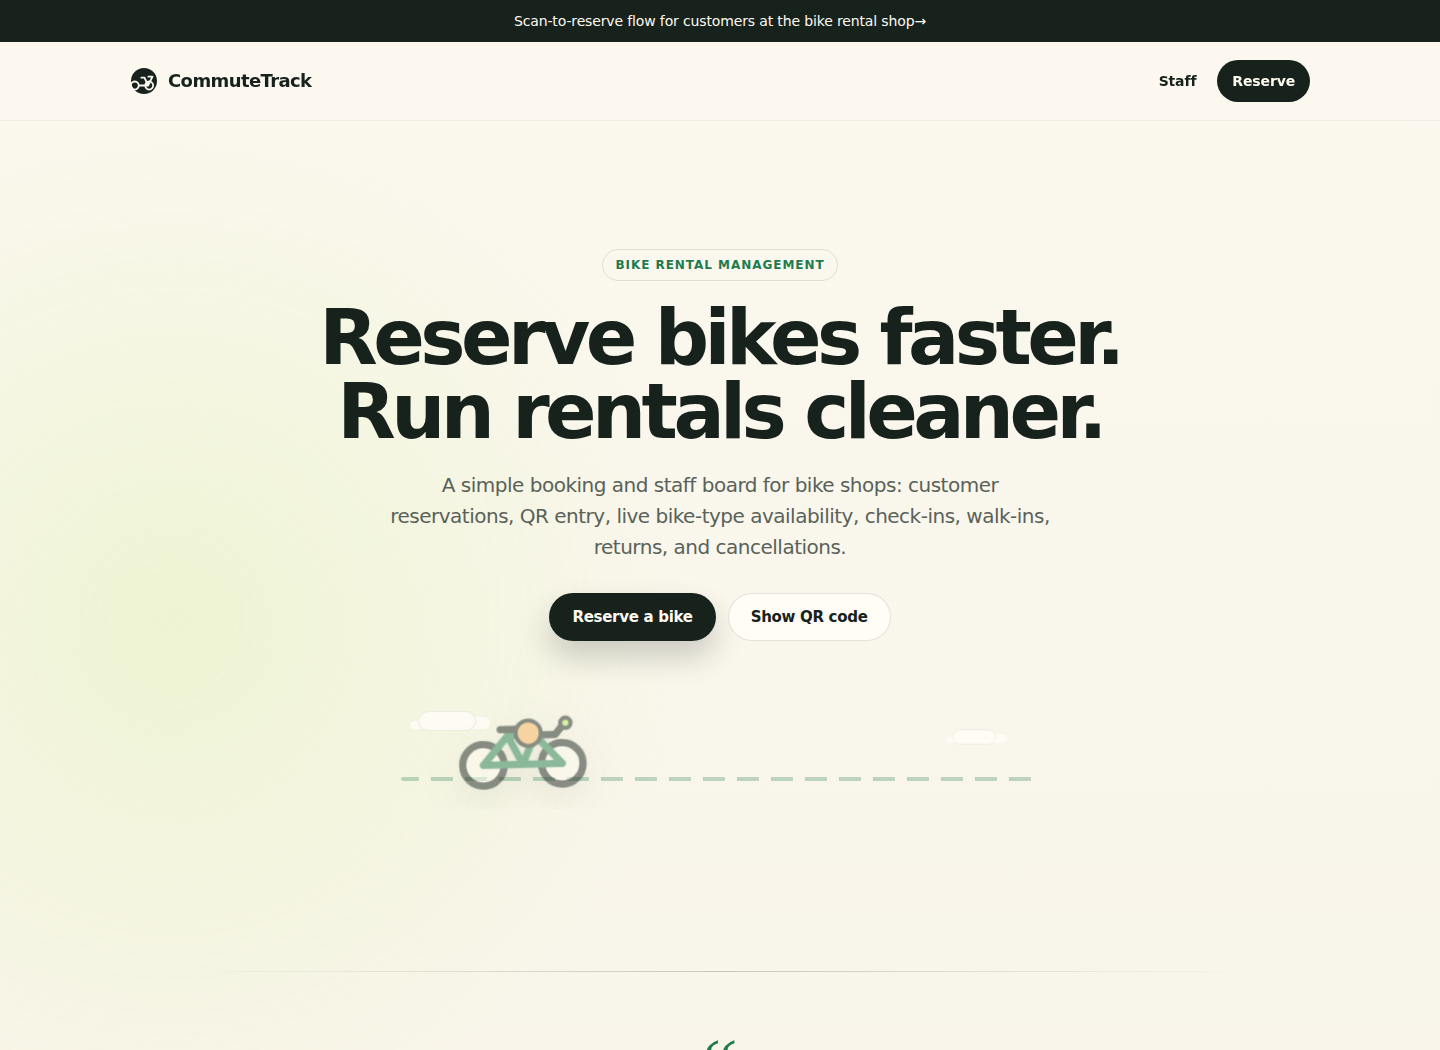
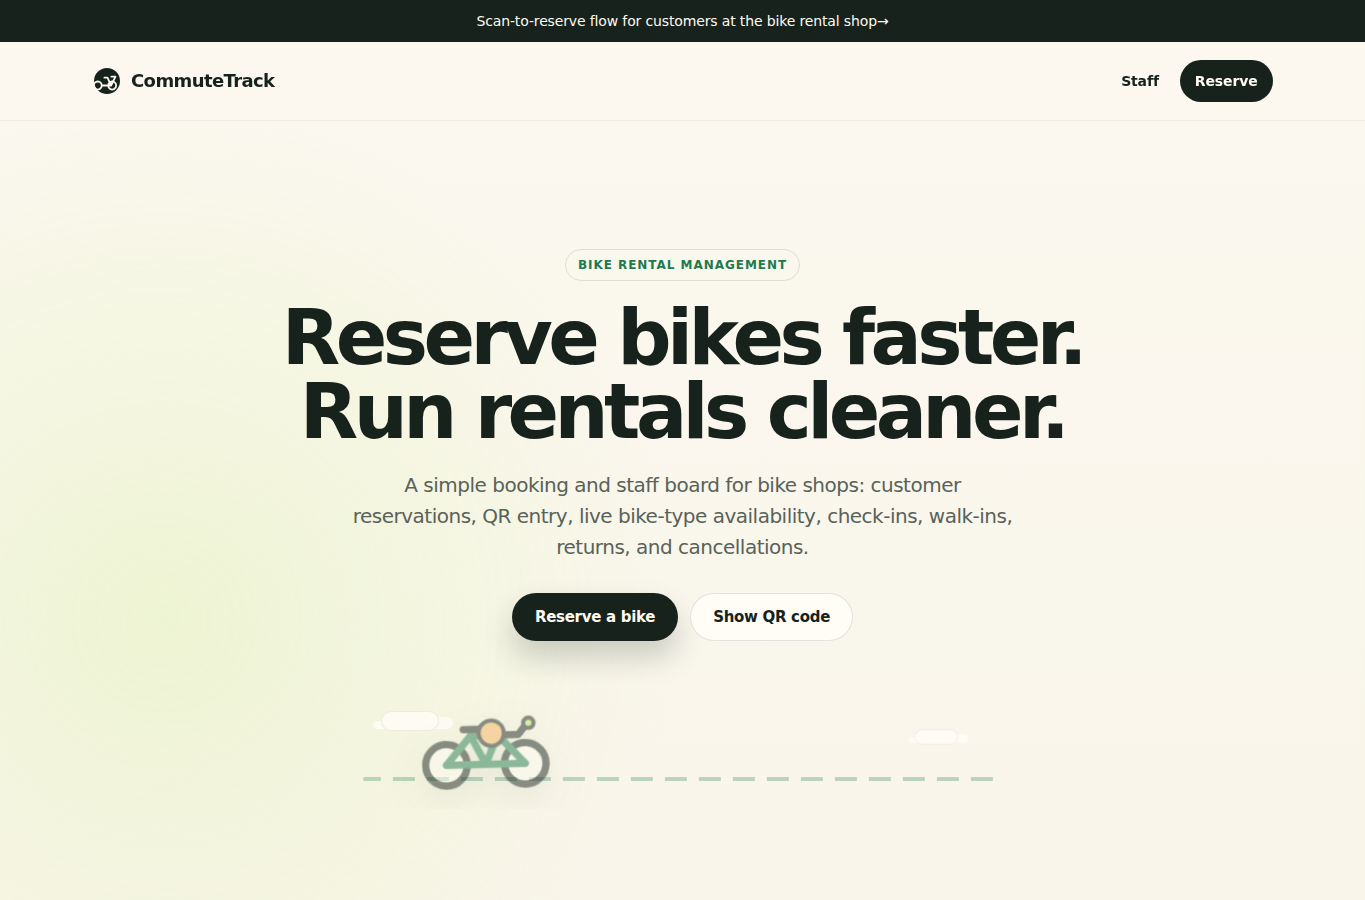
docs: refresh readme screenshots

diff --git a/README.md b/README.md
@@ -4,19 +4,27 @@ A web-based bike rental management prototype for small bike rental shops. The sy
 
 This project is focused on the required rental workflow from the SWE report: customer reservations, staff/clerk operations, bike-type availability, agreement confirmation, and rental status tracking. Payment processing, POS integration, notifications, analytics, and owner dashboards are outside the scope of this version.
 
+## Live Demo
+
+```text
+https://swe-group-project.onrender.com
+```
+
 ## Screenshots
+
+The screenshots below are captured from the current production build so they match the deployed interface.
 
 ### Homepage
 
-![Homepage](assets/screenshots/homepage.png)
+<img src="assets/screenshots/homepage.png" alt="Bike rental homepage" width="780">
 
 ### Customer reservation workflow
 
-![Customer reservation workflow](assets/screenshots/reservation-workflow.png)
+<img src="assets/screenshots/reservation-workflow.png" alt="Customer reservation workflow" width="780">
 
 ### Staff walk-in rental panel
 
-![Staff walk-in rental panel](assets/screenshots/staff-walkin.png)
+<img src="assets/screenshots/staff-walkin.png" alt="Staff walk-in rental panel" width="360">
 
 ## Main Features
 
